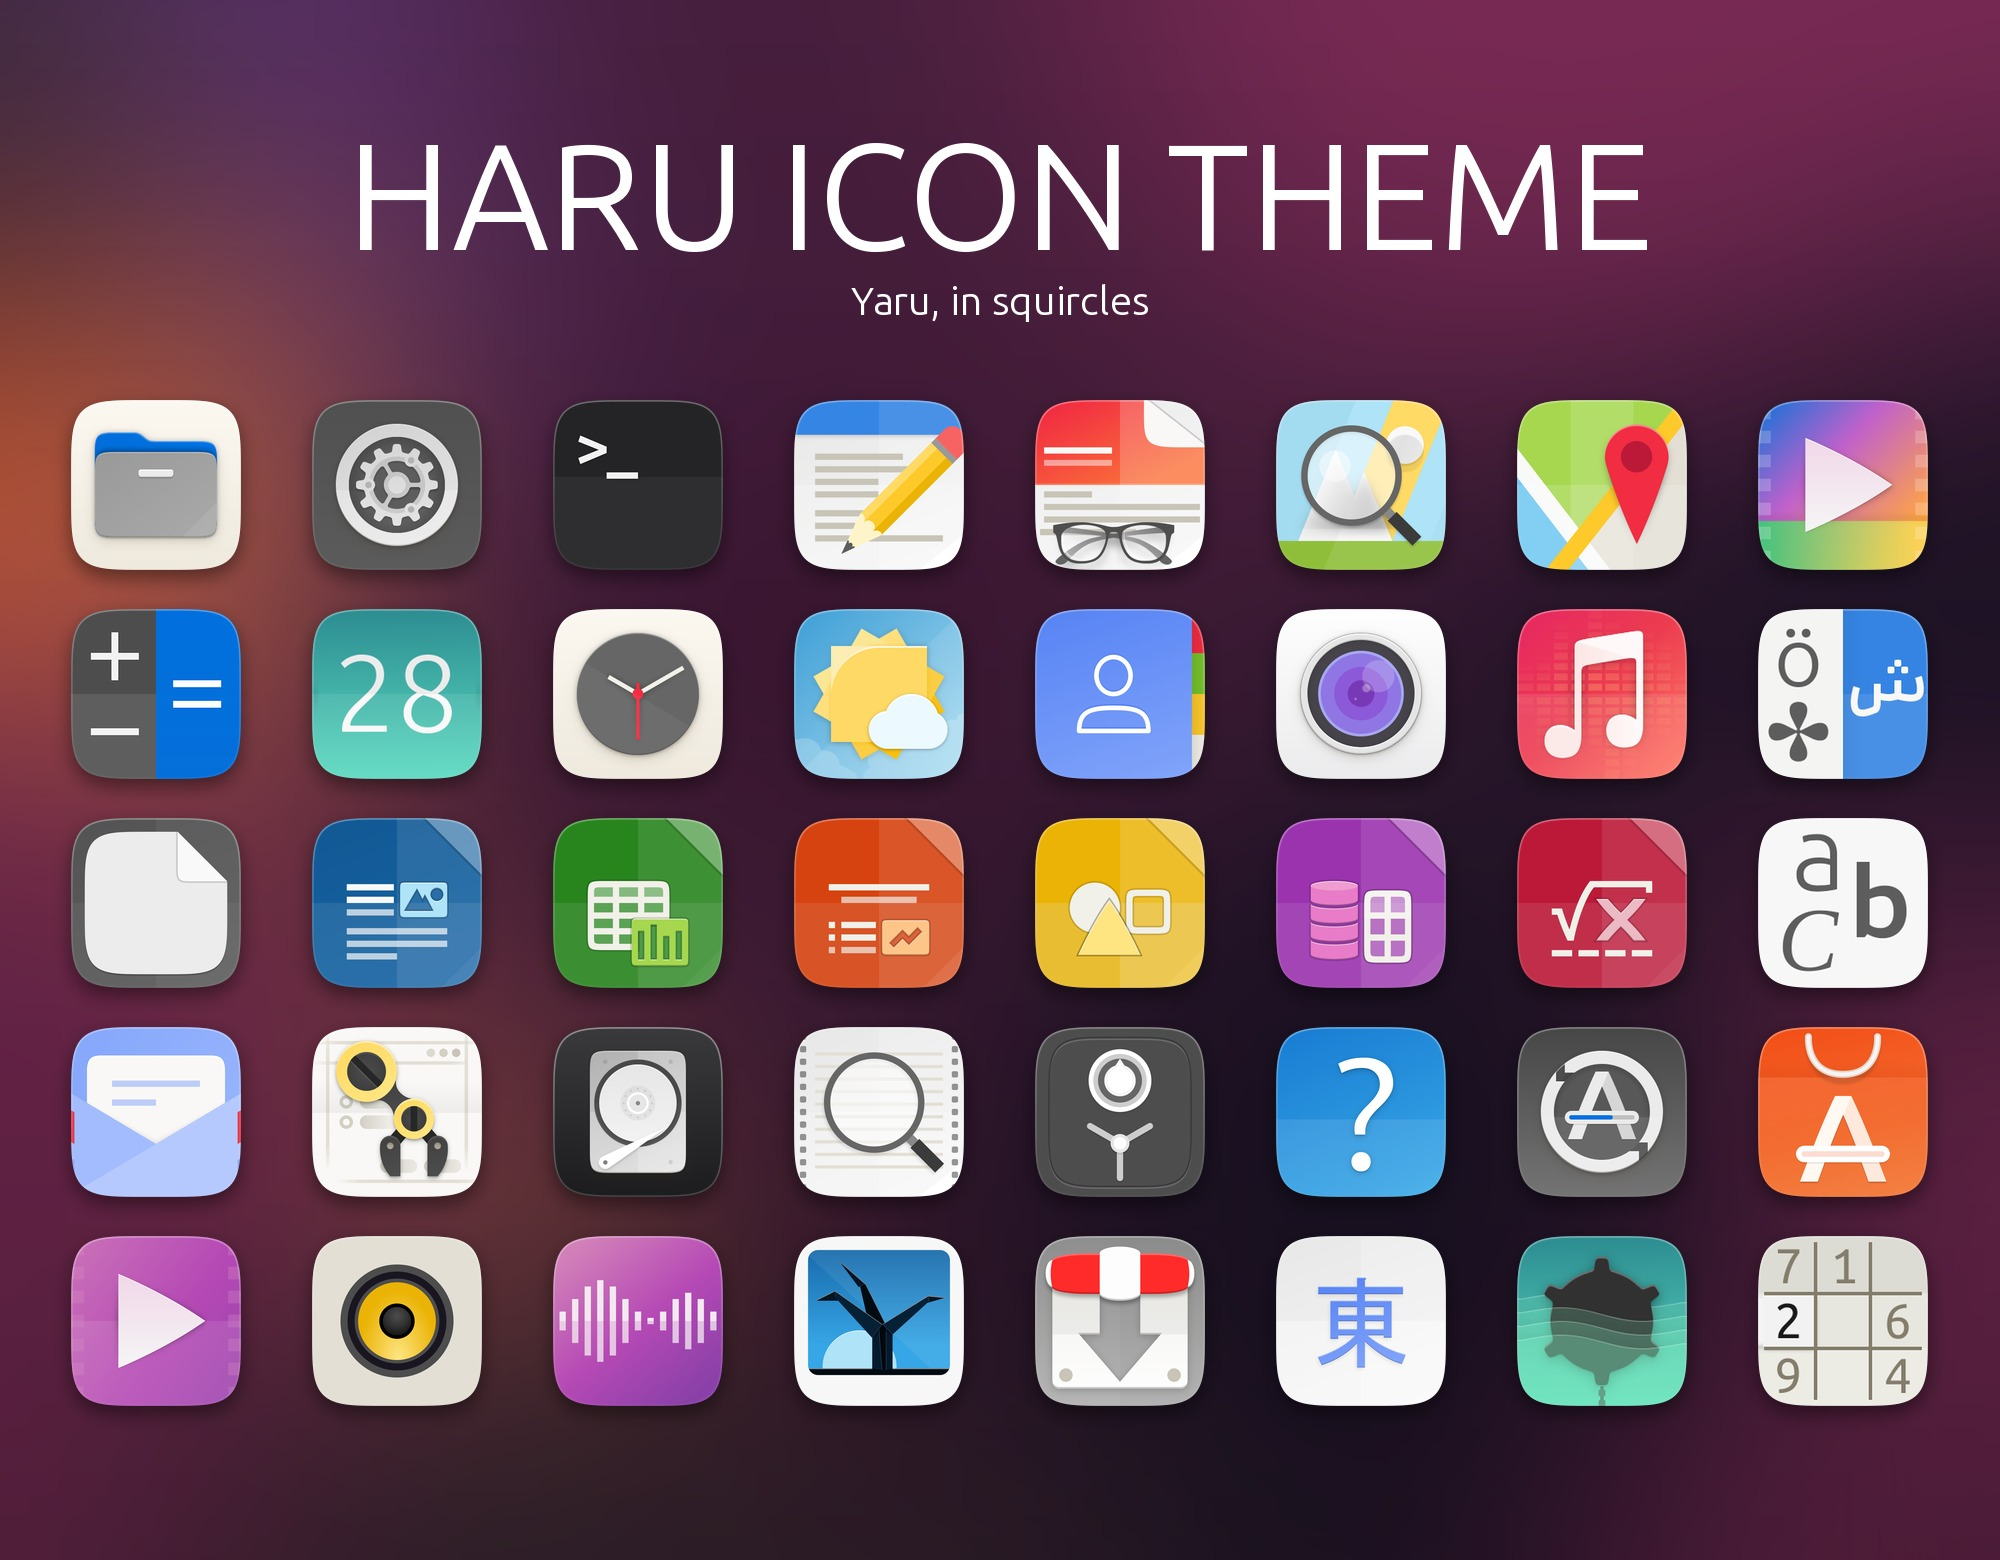
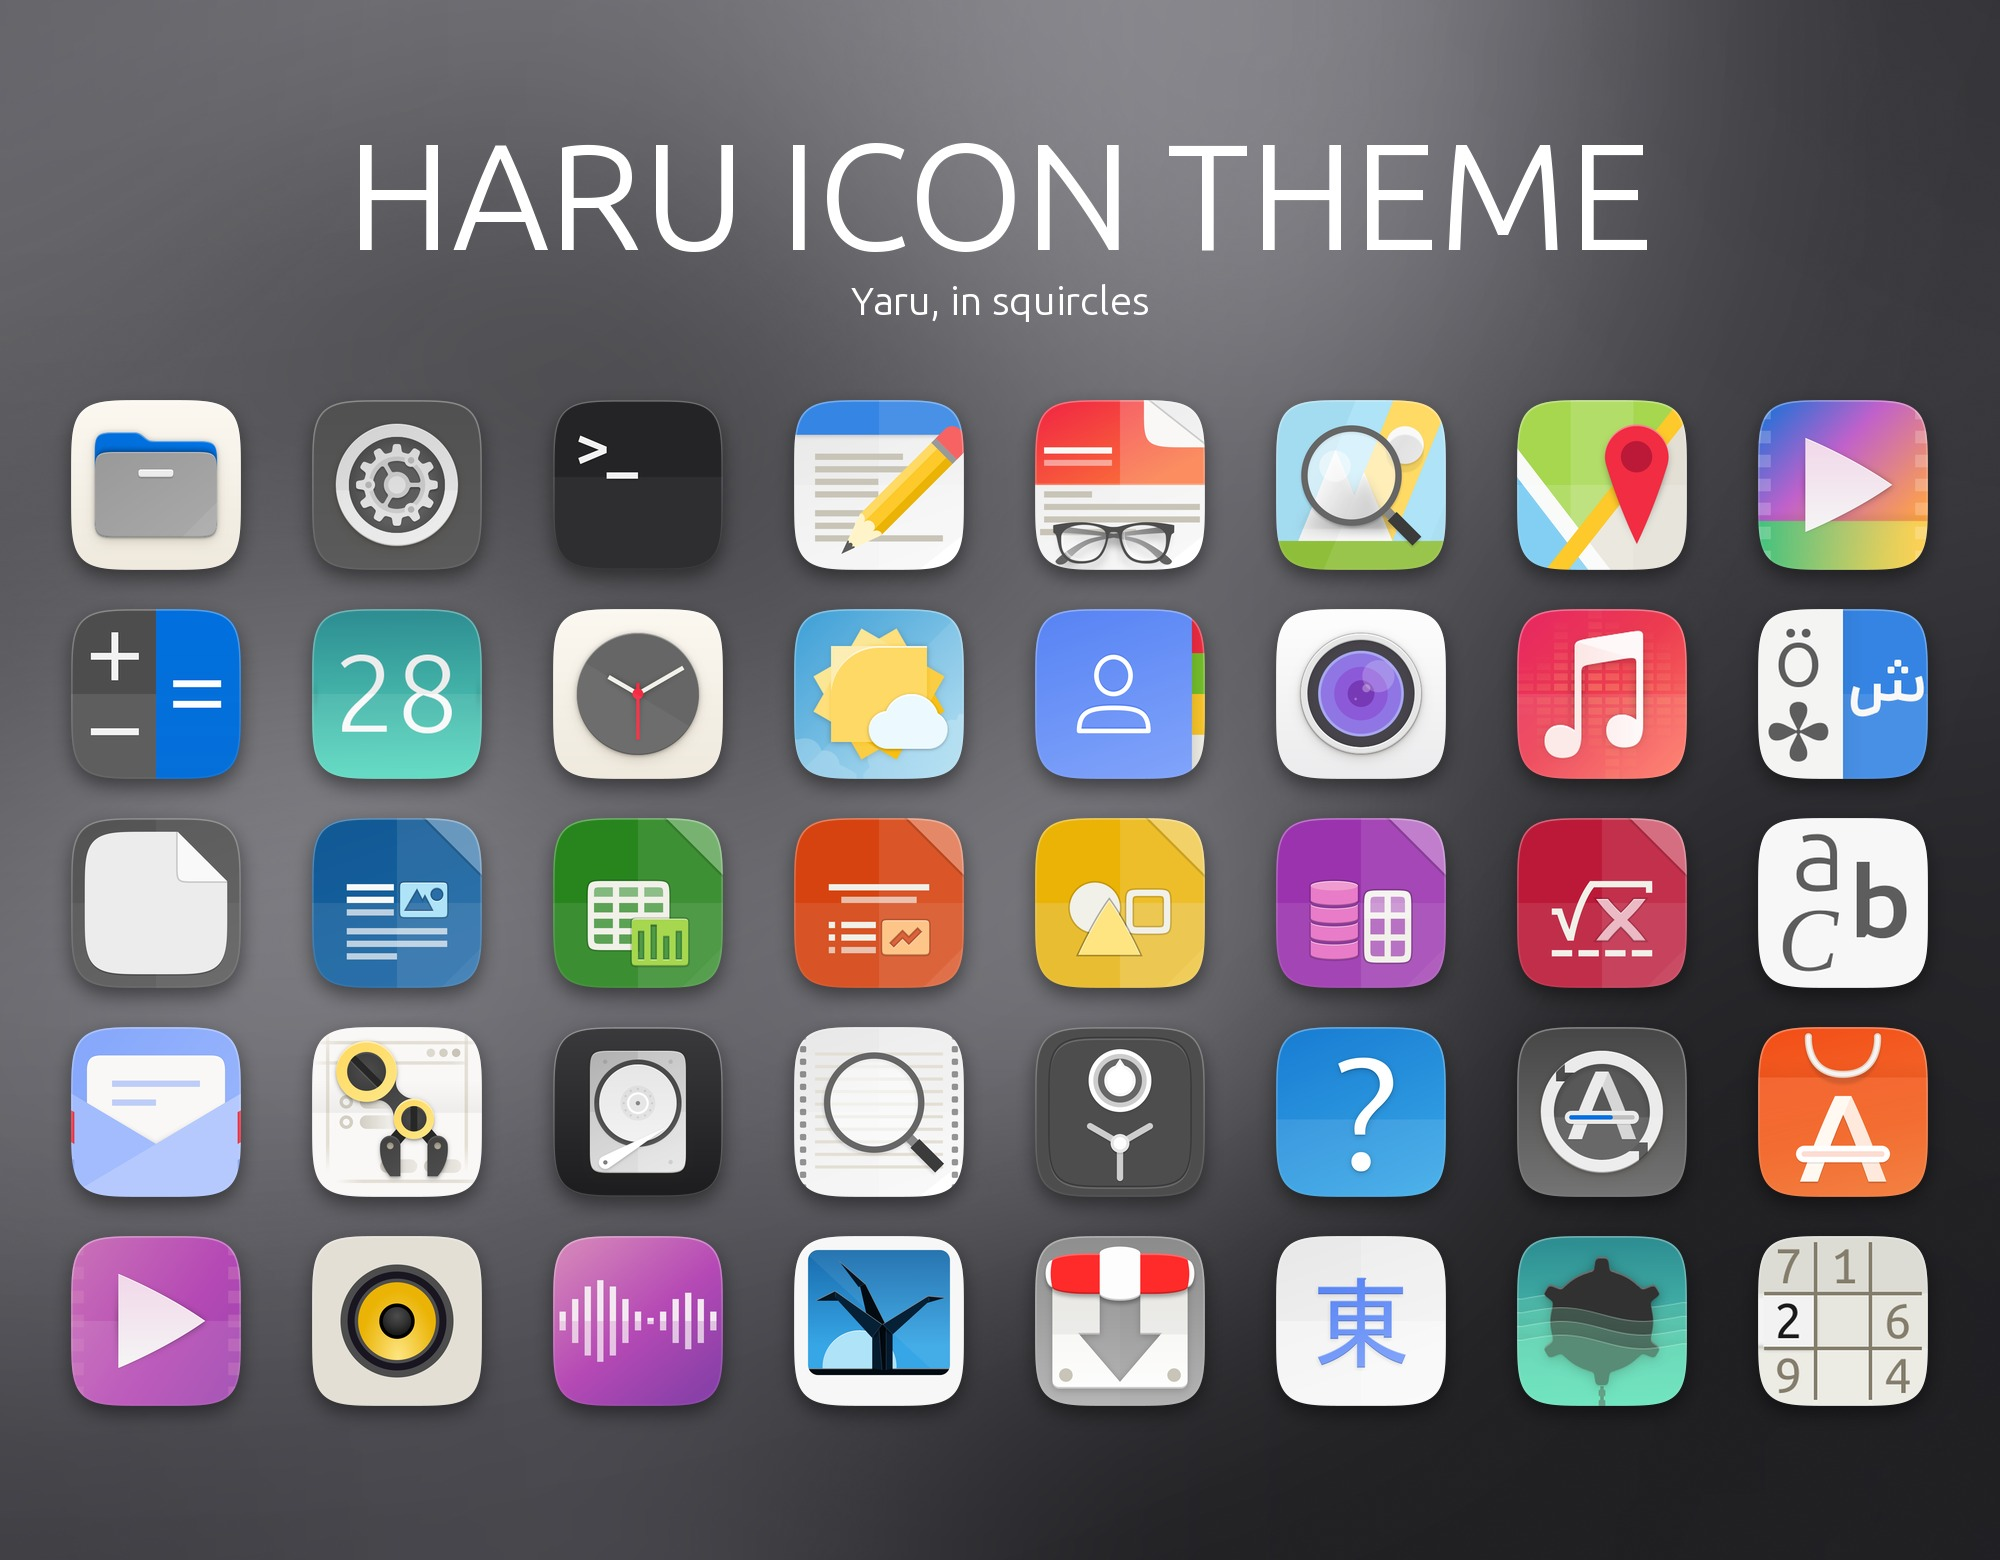
Showcase images: neutral graphite background, frosted dock

diff --git a/tools/showcase/make.py b/tools/showcase/make.py
@@ -4,18 +4,25 @@ import random, hicon
 from PIL import Image, ImageDraw, ImageFont, ImageFilter
 FD='/usr/share/fonts/truetype/ubuntu/'
 def background(w,h,seed=7):
+    """A neutral graphite backdrop, like an out-of-focus macOS wallpaper: soft grey
+    light from the top left, a few blurred lighter and darker shapes, a gentle vignette."""
     random.seed(seed)
-    bg=Image.new('RGB',(w,h),(58,40,52))
+    bg=Image.new('RGB',(w,h),(44,44,48))
     d=ImageDraw.Draw(bg)
-    # soft warm-to-aubergine blobs, then a heavy blur: an out-of-focus wallpaper
-    cols=[(233,84,32),(119,41,83),(44,0,30),(250,160,90),(90,50,110),(30,20,40),(200,110,80),(70,30,60)]
-    for _ in range(26):
-        r=random.randint(w//8,w//3); x=random.randint(-r//2,w); y=random.randint(-r//2,h)
+    cols=[(92,92,98),(70,70,76),(30,30,33),(120,120,126),(56,56,61),(22,22,25)]
+    for _ in range(22):
+        r=random.randint(w//7,w//3); x=random.randint(-r//2,w); y=random.randint(-r//2,h)
         d.ellipse((x-r,y-r,x+r,y+r),fill=random.choice(cols))
-    bg=bg.filter(ImageFilter.GaussianBlur(w/14))
-    shade=Image.new('L',(1,h)); 
-    for y in range(h): shade.putpixel((0,y),int(70*y/h))
-    bg.paste((0,0,0),(0,0),shade.resize((w,h)))   # a little darker towards the bottom
+    bg=bg.filter(ImageFilter.GaussianBlur(w/12))
+    light=Image.new('L',(w,h),0); ld=ImageDraw.Draw(light)
+    ld.ellipse((-w*0.4,-h*0.6,w*0.7,h*0.6),fill=70)
+    light=light.filter(ImageFilter.GaussianBlur(w/6))
+    bg.paste((210,210,215),(0,0),light)                 # soft light from the top left
+    vig=Image.new('L',(w,h),0); vd=ImageDraw.Draw(vig)
+    vd.rectangle((0,0,w,h),fill=110); vd.ellipse((-w*0.15,-h*0.2,w*1.15,h*1.2),fill=0)
+    bg.paste((8,8,10),(0,0),vig.filter(ImageFilter.GaussianBlur(w/8)))   # darker edges
+    noise=Image.effect_noise((w,h),6).convert('L')                     # a touch of grain against banding
+    bg=Image.blend(bg,Image.merge('RGB',(noise,noise,noise)),0.03)
     return bg.convert('RGBA')
 
 def shadow(img,blur=10,dy=6,alpha=0.35):
@@ -58,7 +65,7 @@ def bar(out,W=1600):
         d.text((40,y),title,font=lab,fill=(255,255,255))
         dock_w=n*(S+28)+28; dx=(W-dock_w)//2; dy=y+70
         dock=Image.new('RGBA',(W,H)); dd=ImageDraw.Draw(dock)
-        dd.rounded_rectangle((dx,dy,dx+dock_w,dy+S+36),radius=30,fill=(30,30,34,150))
+        dd.rounded_rectangle((dx,dy,dx+dock_w,dy+S+36),radius=30,fill=(255,255,255,26),outline=(255,255,255,40),width=2)   # frosted glass
         bg.alpha_composite(dock)
         for i,k in enumerate(BAR):
             ic=fn(k)
